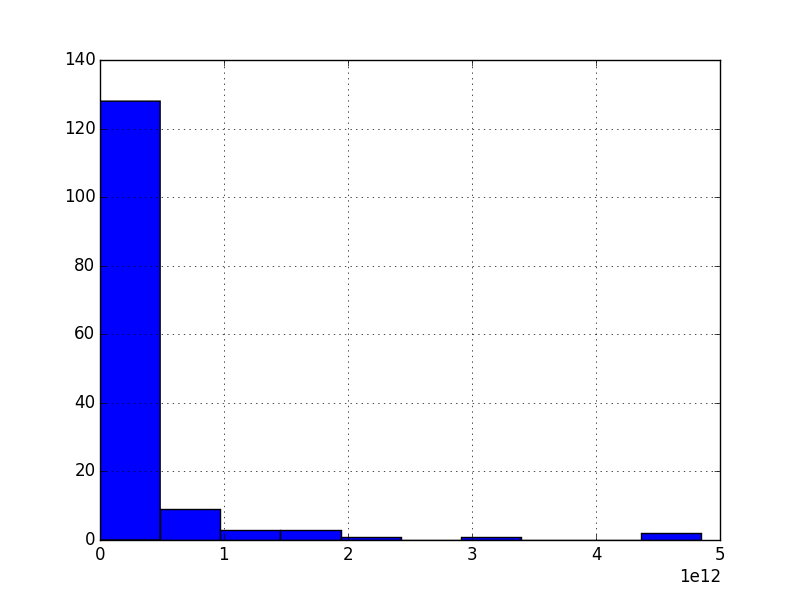
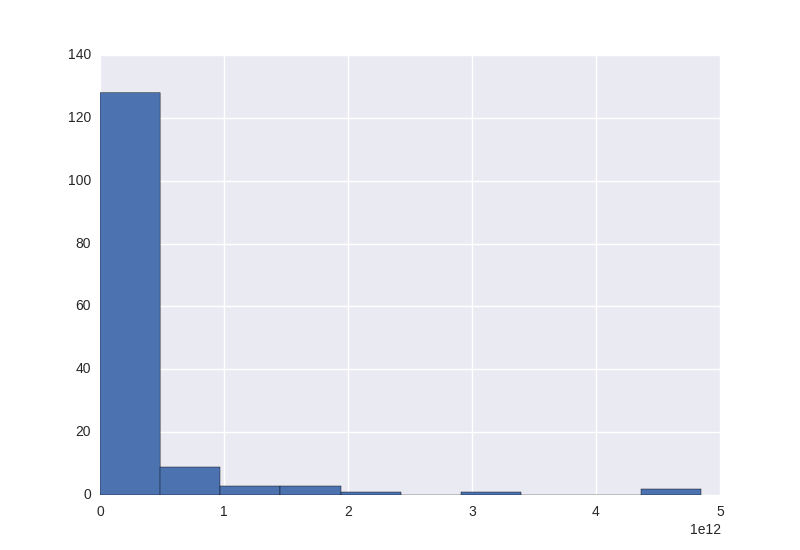
update visualization with seaborn library

Changed region(s): [[0.0625, 0.0618, 0.9062, 0.9891]]

diff --git a/education_data_analysis.py b/education_data_analysis.py
@@ -3,6 +3,7 @@ import sqlite3 as lite
 import matplotlib.pyplot as plt
 import numpy as np
 import statsmodels.api as sm
+import seaborn as sns
 
 # ---------------------------
 # LOAD DATA
@@ -89,5 +90,11 @@ plt.plot(logsample, model1.params[0] + model1.params[1]*logsample, 'r')
 plt.draw()
 plt.savefig('model_fit.png')
 
+plt.figure()
+sns.jointplot("loggdp","women",df, kind="reg")
+plt.savefig('seaborn_female_data_model.png')
+plt.figure()
+sns.jointplot("loggdp","men",df, kind="reg")
+plt.savefig('seaborn_male_data_model.png')
 
 plt.show()
